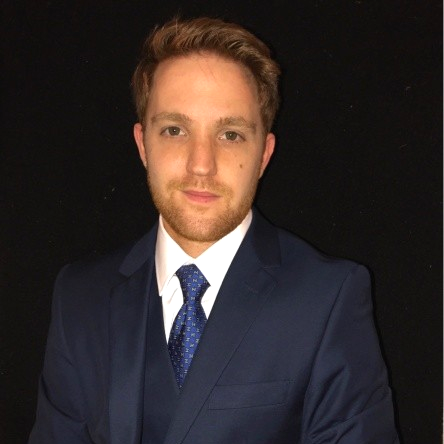
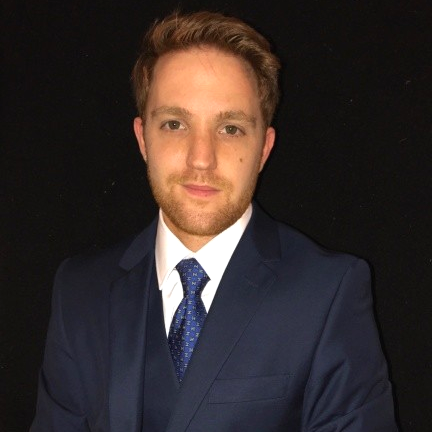
photo upadte on About us

diff --git a/src/Pages/About/About.js b/src/Pages/About/About.js
@@ -2,7 +2,8 @@ import React from 'react'
 import './About.css'
 import AboutBanner from '../../Components/AboutBanner/AboutBanner'
 import Nicholas from '../../Assets/OurTeam/Nicholas.png'
-import Lawrence from '../../Assets/OurTeam/Lawrence. png'
+import Lawrence from '../../Assets/OurTeam/Lawrence.jpg'
+import Jack from '../../Assets/OurTeam/OBrien_Jack.png'
 import { MDBRow, MDBCol, MDBCard, MDBCardBody } from 'mdbreact'
 
 function About () {
@@ -66,6 +67,57 @@ function About () {
                 </a>
               </MDBCol>
             </MDBCol>
+            <MDBCol lg='6' md='12' className='mb-5'>
+            <MDBCol md='4' lg='6' className='float-left'>
+                <img
+                  src={Jack}
+                  className='mx-auto mb-md-0 mb-4 rounded z-depth-1 img-fluid'
+                  tag='img'
+                  alt='Sample avatar'
+                />
+              </MDBCol>
+              <MDBCol md='8' lg='6' className='float-right'>
+                <h4 className='font-weight-bold mb-3'>Jack O'Brien</h4>
+                <h6 className='font-weight-bold grey-text mb-3'>
+                Account Manager & Sales Rep
+                </h6>
+                <p className='About__p'>
+                Nicholas Dallas is the founder of STM LLC. However, he is also blessed to own a California-registered 501(c)3 non-profit - Huntington Beach Lacrosse Club. Nicholas holds a Global Business Management degree and a minor in Economics from Regis College in Weston, MA. He is also a Full Stack Web Developer and loves helping business owners achieve self-growth.                </p>
+                <a href='https://www.linkedin.com/in/nicholas-dallas-54b5b097/' target='_blank' rel="noreferrer"  className='p-2 fa-lg li-ic'>
+                <i className="fab fa-linkedin-in"></i>
+                </a>
+                <a href='mailto:info@strattonterrace.com' target='_blank' rel="noreferrer"  className='p-2 fa-lg email-ic'>
+                <i className="far fa-envelope"></i>
+                </a>
+                </MDBCol>
+            </MDBCol>
+
+            <MDBCol lg='6' md='12' className='mb-5'>
+              <MDBCol md='4' lg='6' className='float-left'>
+                <img
+                  src={Lawrence}
+                  className='mx-auto mb-md-0 mb-4 rounded z-depth-1 img-fluid'
+                  tag='img'
+                  alt='Sample avatar'
+                />
+              </MDBCol>
+              <MDBCol md='8' lg='6' className='float-right'>
+                <h4 className='font-weight-bold mb-3'>Laurynas Juzva</h4>
+                <h6 className='font-weight-bold grey-text mb-3'>
+                  Full stack web developer
+                </h6>
+                <p className='About__p'>
+                Laurynas is a full-stack Web Developer. He has a Bachelor of Business administration, but his primary focus and inspiration are Web Development. He is driven, self-motivated, and constantly experimenting with new technologies and techniques. He is very passionate about Web Development and strives to better himself as a developer, and the development community as a whole.
+                </p>
+                <a href='https://www.linkedin.com/in/lawerence-j/' target='_blank' rel="noreferrer"  className='p-2 fa-lg li-ic'>
+                <i class="fab fa-linkedin-in"></i>
+                </a>
+                <a href='mailto:laurynas@strattonterrace.com' target='_blank' rel="noreferrer"  className='p-2 fa-lg email-ic'>
+                <i class="far fa-envelope"></i>
+                </a>
+              </MDBCol>
+            </MDBCol>
+              </MDBRow>
             <MDBCol xl='4' lg='6' md='12' className='mb-5'>
               <h4 className='font-weight-bold mb-3'>Pat Downer</h4>
               <h6 className='font-weight-bold grey-text mb-3'>
@@ -78,12 +130,12 @@ function About () {
                 Coordinator & Brand Marketing Specialist
               </h6>
             </MDBCol>
-            <MDBCol xl='4' lg='6' md='12' className='mb-5'>
+            {/* <MDBCol xl='4' lg='6' md='12' className='mb-5'>
               <h4 className='font-weight-bold mb-3'>Jack O'Brien</h4>
               <h6 className='font-weight-bold grey-text mb-3'>
                 Account Manager & Sales Rep
               </h6>
-            </MDBCol>
+            </MDBCol> */}
             <MDBCol xl='4' lg='6' md='12' className='mb-5'>
               <h4 className='font-weight-bold mb-3'>Brendan Ryan</h4>
               <h6 className='font-weight-bold grey-text mb-3'>
@@ -108,7 +160,6 @@ function About () {
               Graphic Designer
               </h6>
             </MDBCol>
-          </MDBRow>
         </MDBCardBody>
       </MDBCard>
       <p className='About__pTag'>

diff --git a/src/Components/Cards/Cards.js b/src/Components/Cards/Cards.js
@@ -5,7 +5,7 @@ import CardItem from './CardItem';
 function Cards() {
   return (
     <div className='cards'>
-      <h1 className ="cards__h1">OUR MOST POPULAR SERVICES</h1>
+      <h1 className ="cards__h1">TOP CONSUMER CHOICES</h1>
       <div className='cards__container'>
         <div className='cards__wrapper'>
           <ul className='cards__items'>
